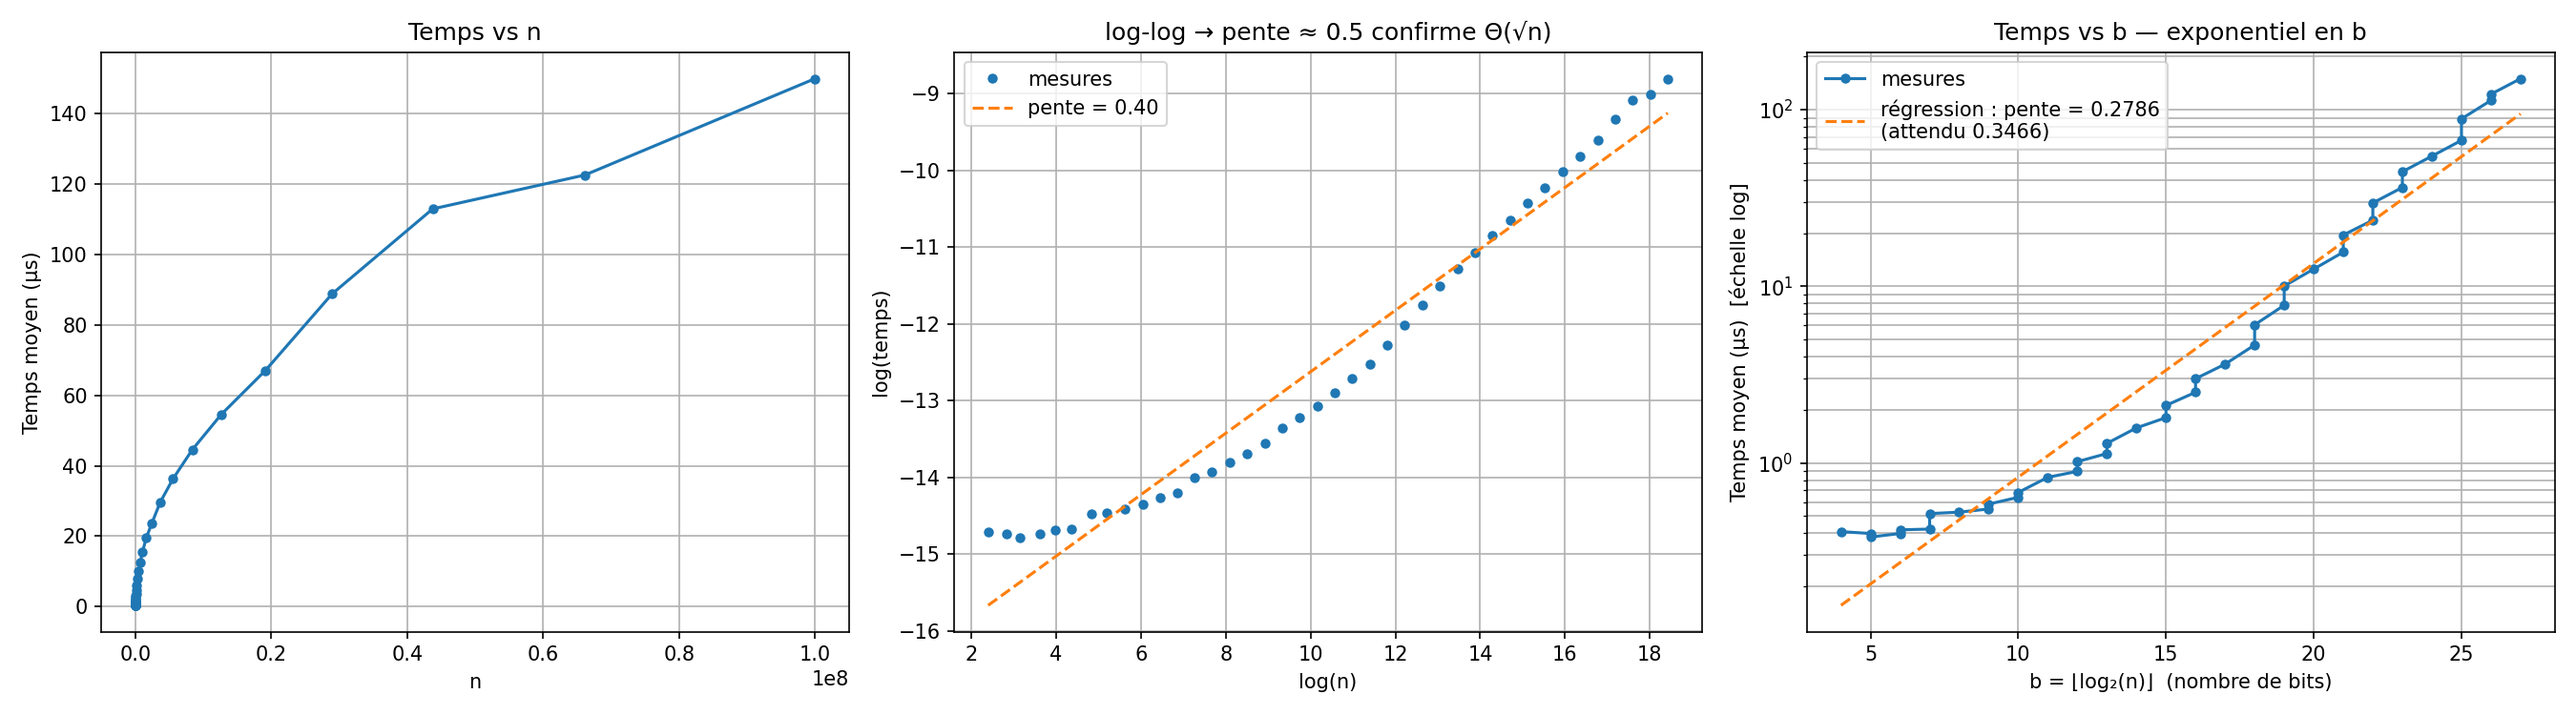
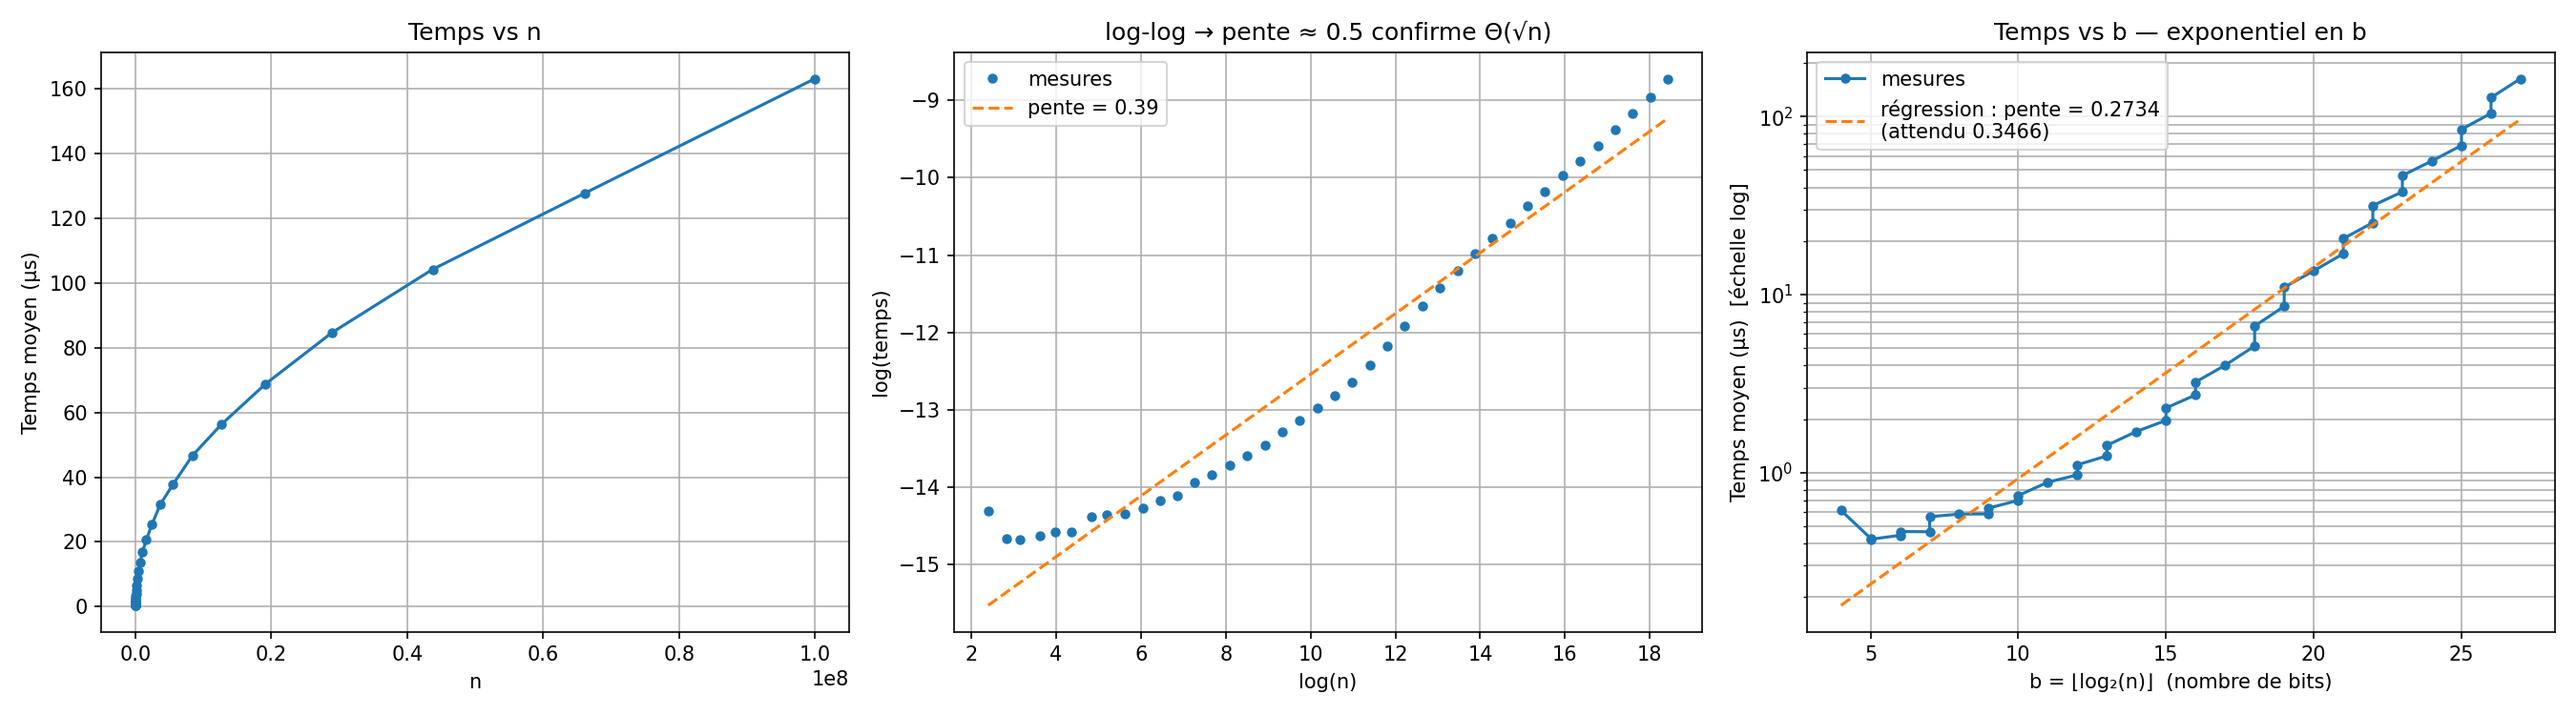
fermat complex

diff --git a/td2/naive/complexity.py b/td2/naive/complexity.py
@@ -14,14 +14,6 @@ from main import is_prime_naive
 from sympy import nextprime
 
 
-def next_prime(start: int) -> int:
-    """Retourne le plus petit premier >= start."""
-    n = start | 1  # force impair
-    while not is_prime_naive(n):
-        n += 2
-    return n
-
-
 def measure(n: int, repeats: int = 30) -> float:
     """Temps moyen (s) pour tester la primalité de n."""
     t0 = time.perf_counter()
@@ -34,7 +26,7 @@ def run():
     # Pire cas : n premier → on parcourt tous les diviseurs jusqu'à √n
     # Valeurs logarithmiquement espacées entre 10^1 et 10^8
     ns_raw = np.logspace(1, 8, num=40, dtype=int)
-    candidates = [next_prime(int(n)) for n in ns_raw]
+    candidates = [int(nextprime(int(n))) for n in ns_raw]
     times = [measure(n) for n in candidates]
     sqrts = [math.sqrt(n) for n in candidates]
 
